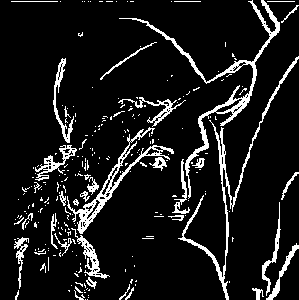
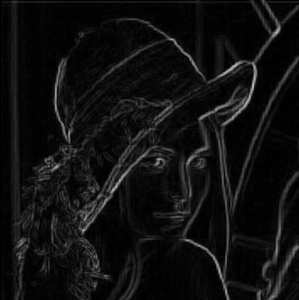
.

diff --git a/Combination/Border/code.py b/Combination/Border/code.py
@@ -1,10 +1,10 @@
 import cv2
 import numpy as np
 
-kernel=np.array([[1, 1], [1, 1]])
+kernel=np.array([[1, 0], [1, 1]]).astype("uint8")
 image=cv2.imread('image.png')
 image=cv2.cvtColor(image, cv2.COLOR_BGR2GRAY)
-image1=cv2.erode(image, kernel, iterations=1)
-image2=cv2.dilate(image, kernel, iterations=1)
+image1=cv2.erode(image, kernel, iterations=2)
+image2=cv2.dilate(image, kernel, iterations=2)
 image=image2-image1
 cv2.imwrite('border.png', image)

diff --git a/Combination/Laplacian/code.py b/Combination/Laplacian/code.py
@@ -1,11 +1,11 @@
 import cv2
 import numpy as np
 
-difference=1
+difference=1.6
 image=cv2.imread('image.png')
 image=cv2.cvtColor(image, cv2.COLOR_BGR2GRAY)
 result1=cv2.GaussianBlur(image, (7, 7), 3)
-result2=cv2.GaussianBlur(image, (7, 7), 3+difference)
+result2=cv2.GaussianBlur(image, (7, 7), 3*difference)
 result=result2-result1
 val, result=cv2.threshold(result, 0, 255, cv2.THRESH_BINARY+cv2.THRESH_OTSU)
 result3=cv2.GaussianBlur(image, (7, 7), 3)
